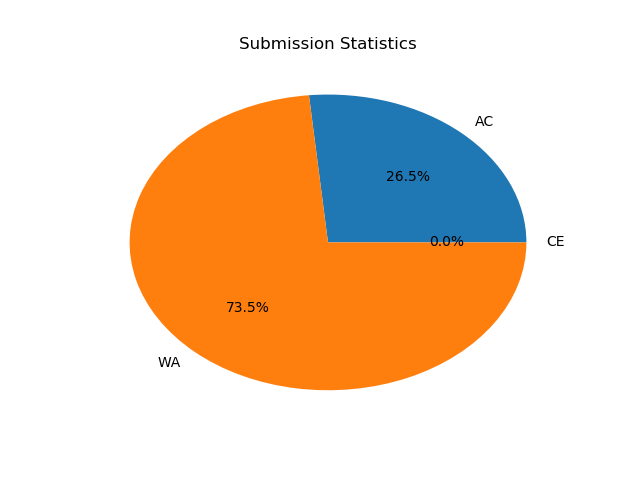
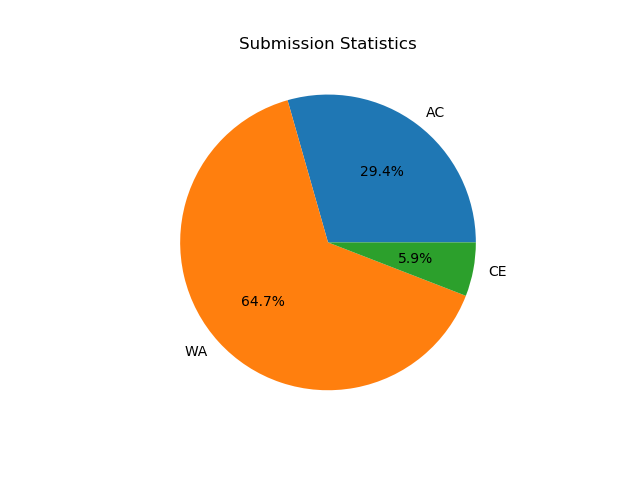
bugs fixed

diff --git a/templates/submissions.html b/templates/submissions.html
@@ -17,13 +17,17 @@
 
 {% if programStatus == "Compilation Error!": %}
 <div class="alert alert-warning">
-{% elif programStatus == "Wrong Answer!": %}
-<div class="alert alert-danger">
-{% elif programStatus == "Accepted!": %}
-<div class="alert alert-success">
-{% endif %}
 	<strong>{{ programStatus }}</strong>
 </div>
+{% elif programStatus == "Wrong Answer!": %}
+<div class="alert alert-danger">
+	<strong>{{ programStatus }}</strong>
+</div>
+{% elif programStatus == "Accepted!": %}
+<div class="alert alert-success">
+	<strong>{{ programStatus }}</strong>
+</div>
+{% endif %}
 
 {% for subs in submissions: %}
 	<span style="cursor:pointer">
@@ -40,8 +44,8 @@
 	</tr>
 	</span>
 {% endfor %}
-{% endif %}
 </table>
+{% endif %}
 {% if flag == "A": %}
 <h1>All Submissions</h1>
 	<table>
@@ -62,7 +66,7 @@
 		<td>{{ subs[5] }}</td>
 	</tr>
 	</span>
-</table>
 {% endfor %}
+</table>
 {% endif %}
 {% endblock %}

diff --git a/project.py b/project.py
@@ -10,11 +10,12 @@ app = Flask(__name__)
 app.secret_key = os.urandom(12)
 
 #Database connection to database name 'online_judge'. Ensure user and password is same
-db = MySQLdb.connect('localhost', 'root', 'root123', 'online_judge')
+db = MySQLdb.connect('localhost', 'root', 'root@123', 'online_judge')
 
 @app.route("/saveAndEvaluate/<int:problem_id>",methods=['GET','POST'])
 def saveAndEvaluate(problem_id):
 	programStatus = "Accepted!"
+	problem_name = getSingleValue("select problem_name from problem where problem_id = %d" % problem_id)[0]
 	cursor = db.cursor()
 	code = request.form['code']
 	cursor.execute("insert into submission values(0,'C','WA','','%s',%d,NOW()) " % (session['username'],problem_id))
@@ -33,17 +34,17 @@ def saveAndEvaluate(problem_id):
 		os.chdir("C:\IP-Project")
 		cursor.execute("update submission set Status='CE' where sub_id = %d" % sub_id)
 		programStatus = "Compilation Error!"
-	output=subprocess.check_output("%d.exe < C:\IP-Project\static\problems\%d.txt" % (sub_id,problem_id), shell=True)
-	os.chdir("C:\IP-Project\static\problems")
-	subprocess.call("gcc %d.c -o %d" % (problem_id,problem_id),shell=True)
-	expected_output=subprocess.check_output("%d.exe < C:\IP-Project\static\problems\%d.txt" % (problem_id, problem_id), shell=True)
-	if output!=expected_output:
-		os.chdir("C:\IP-Project")		
-		programStatus = "Wrong Answer!"	
-	cursor.execute("update submission set Status='AC' where problem_id=%d and register_no='%s' and sub_id=%d" % (problem_id,session['username'],sub_id))
-	db.commit()
-	os.chdir("C:\IP-Project")
-	problem_name = getSingleValue("select problem_name from problem where problem_id = %d" % problem_id)[0]
+	else:
+		output=subprocess.check_output("%d.exe < C:\IP-Project\static\problems\%d.txt" % (sub_id,problem_id), shell=True)
+		os.chdir("C:\IP-Project\static\problems")
+		subprocess.call("gcc %d.c -o %d" % (problem_id,problem_id),shell=True)
+		expected_output=subprocess.check_output("%d.exe < C:\IP-Project\static\problems\%d.txt" % (problem_id, problem_id), shell=True)
+		if output!=expected_output:
+			os.chdir("C:\IP-Project")		
+			programStatus = "Wrong Answer!"	
+		cursor.execute("update submission set Status='AC' where problem_id=%d and register_no='%s' and sub_id=%d" % (problem_id,session['username'],sub_id))
+		db.commit()
+		os.chdir("C:\IP-Project")
 	return redirect(url_for('mySubmissions', problem_name = problem_name, programStatus = programStatus))
 
 @app.route("/editor/<int:problem_id>",methods=['GET','POST'])

diff --git a/static/submissions/15/96.c b/static/submissions/15/96.c
@@ -1,0 +1,9 @@
+
+    
+int main()
+{
+    printf("Hello World!")
+    return 0;
+}
+
+

diff --git a/static/submissions/15/98.c b/static/submissions/15/98.c
@@ -1,0 +1,9 @@
+
+    
+int main()
+{
+    printf("Hello World!")
+    return 0;
+}
+
+

diff --git a/static/submissions/15/97.c b/static/submissions/15/97.c
@@ -1,0 +1,9 @@
+
+    
+int main()
+{
+    printf("Hello World!")
+    return 0
+}
+
+
